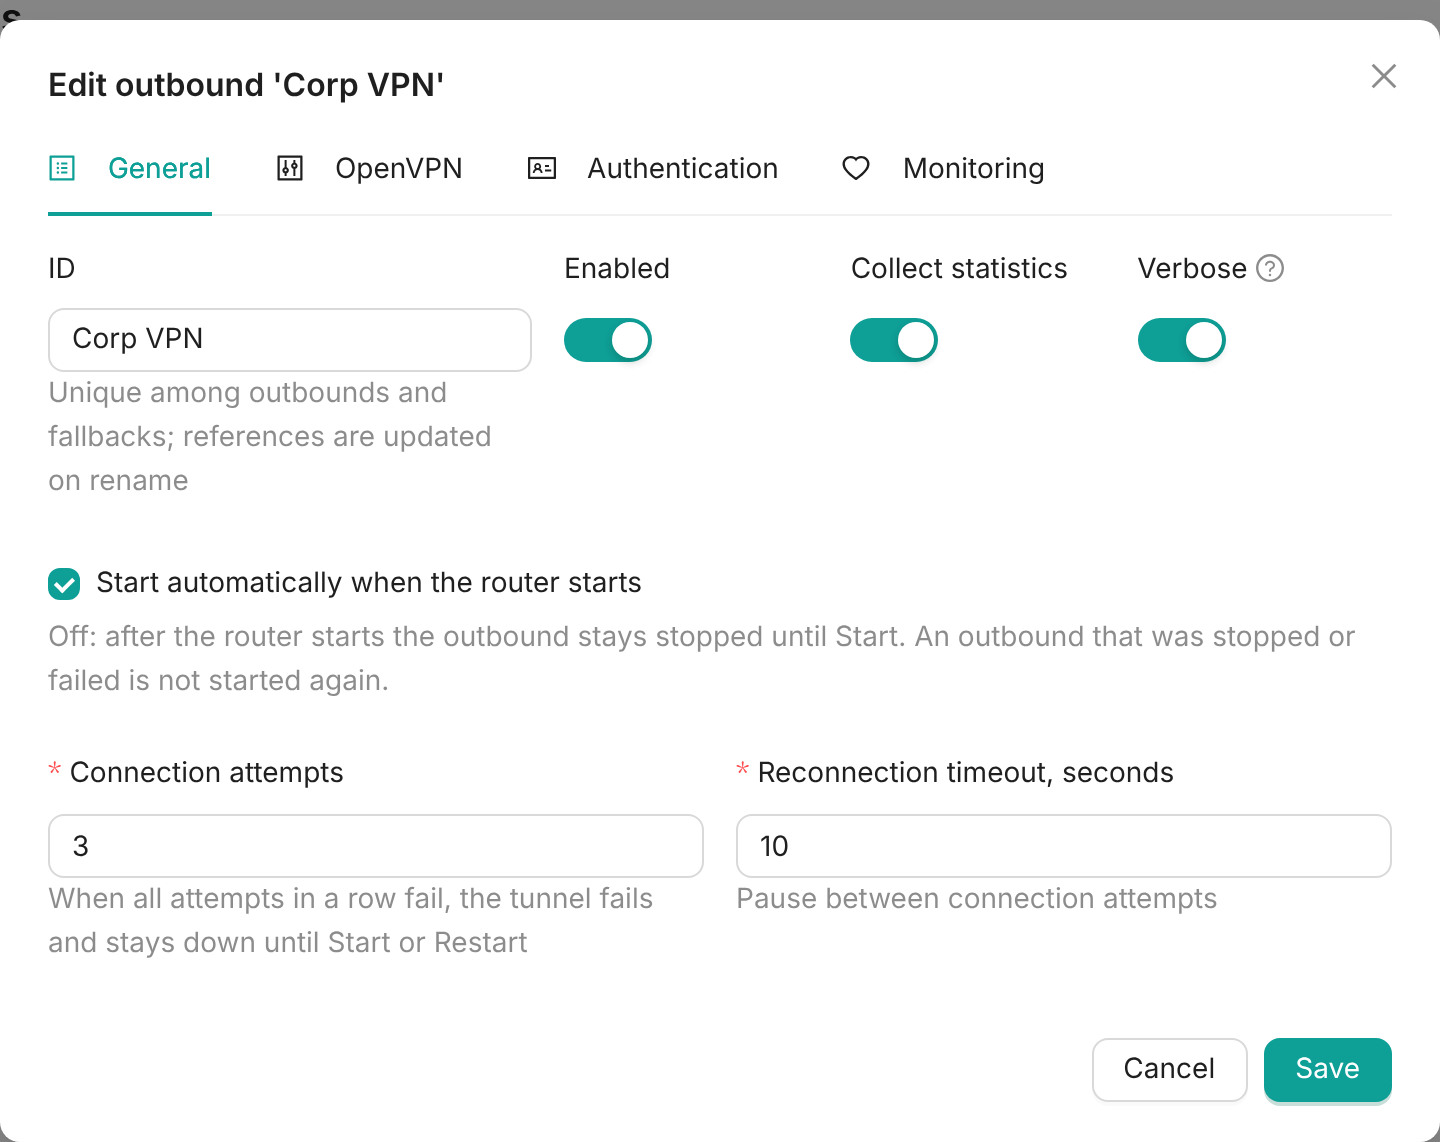
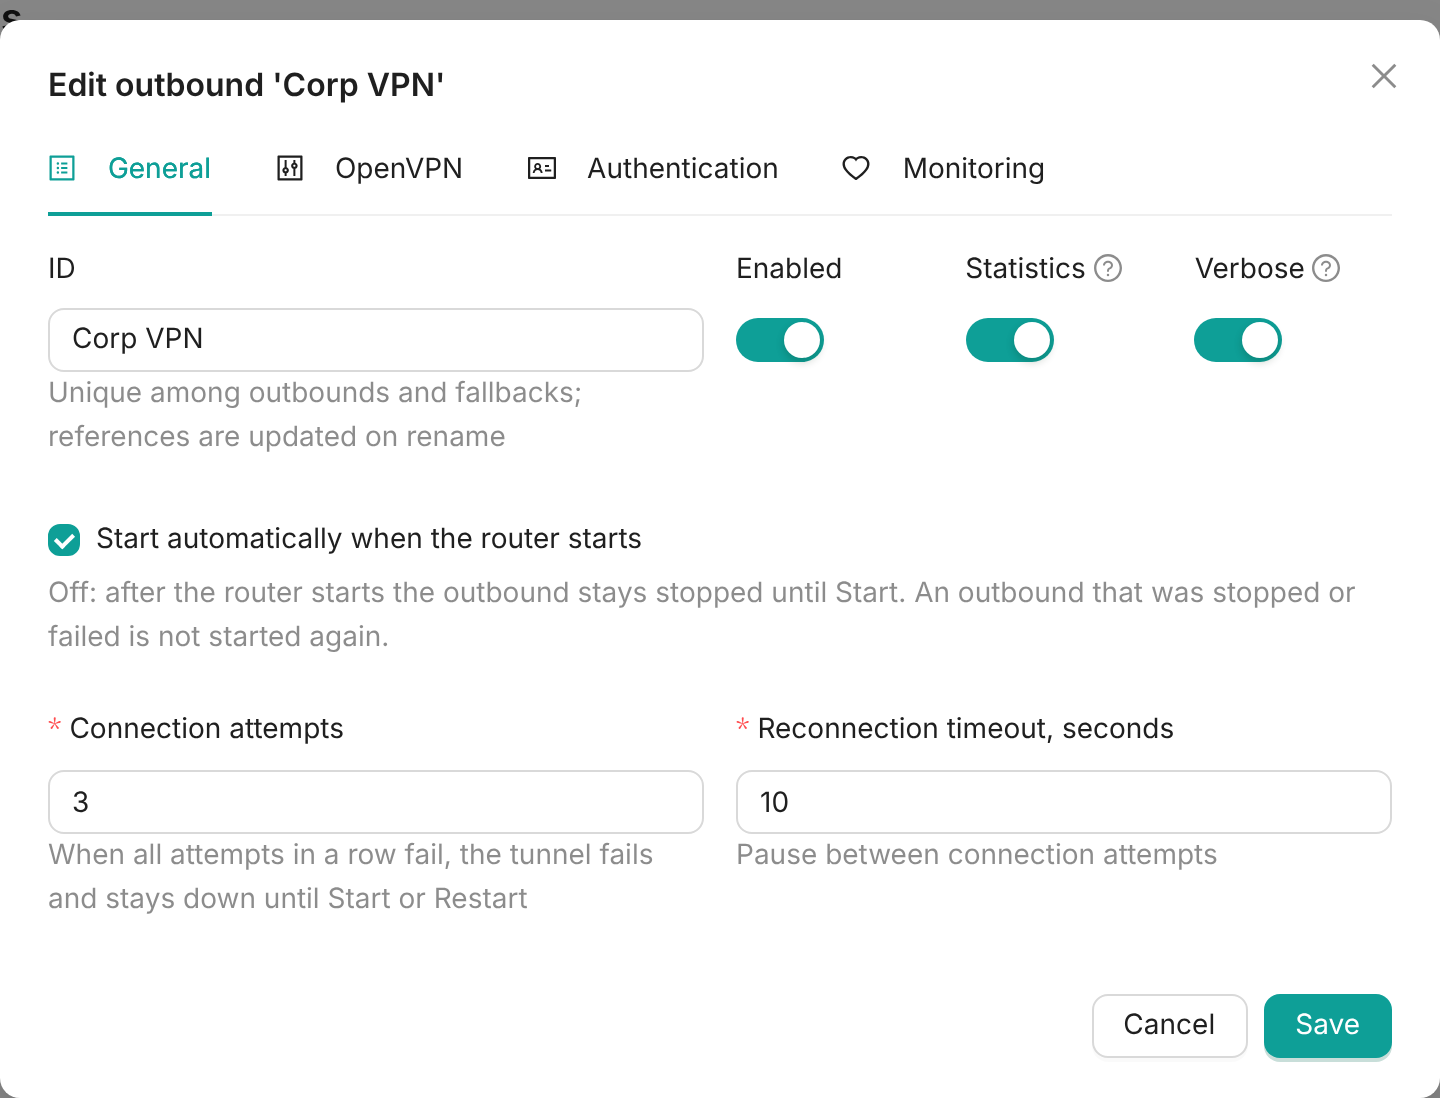
Rename Collect statistics to Statistics in dialogs
Shorten the label so the Enabled, Statistics and Verbose switches fit
in equal narrow columns and the ID field gets half of the row. Add a
tooltip to Statistics, update the docs and the General tab screenshot.

diff --git a/web/src/views/OutboundDialog.vue b/web/src/views/OutboundDialog.vue
@@ -6,15 +6,15 @@
         <a-tab-pane key="general" force-render>
           <template #tab><ProfileOutlined /> General</template>
           <a-row :gutter="16">
-            <a-col :span="9">
+            <a-col :span="12">
               <a-form-item label="ID" name="id" :rules="[{ pattern: idPattern, message: 'Letters, digits, space, _ . - (up to 48)' }]"
                 :extra="outbound ? 'Unique among outbounds and fallbacks; references are updated on rename' : 'Unique, allocated automatically when empty'">
                 <a-input v-model:value="form.id" :placeholder="outbound ? outbound.id : `${shortLabels[kind]} N`" />
               </a-form-item>
             </a-col>
-            <a-col :span="5"><a-form-item label="Enabled"><a-switch v-model:checked="form.enabled" /></a-form-item></a-col>
-            <a-col :span="5"><a-form-item label="Collect statistics"><a-switch v-model:checked="form.statistics" /></a-form-item></a-col>
-            <a-col :span="5">
+            <a-col :span="4"><a-form-item label="Enabled"><a-switch v-model:checked="form.enabled" /></a-form-item></a-col>
+            <a-col :span="4"><a-form-item label="Statistics" tooltip="Count traffic and draw it on the charts"><a-switch v-model:checked="form.statistics" /></a-form-item></a-col>
+            <a-col :span="4">
               <a-form-item label="Verbose" :tooltip="verboseHint"><a-switch v-model:checked="form.verbose" /></a-form-item>
             </a-col>
             <a-col :span="24">

diff --git a/web/src/views/InboundDialog.vue b/web/src/views/InboundDialog.vue
@@ -6,15 +6,15 @@
         <a-tab-pane key="general" force-render>
           <template #tab><ProfileOutlined /> General</template>
           <a-row :gutter="16">
-            <a-col :span="9">
+            <a-col :span="12">
               <a-form-item label="ID" name="id" :rules="[{ pattern: idPattern, message: 'Letters, digits, space, _ . - (up to 48)' }]"
                 :extra="saved ? 'Unique among inbounds' : 'Unique, allocated automatically when empty'">
                 <a-input v-model:value="form.id" :placeholder="saved || `${inboundLabels[kind]} N`" />
               </a-form-item>
             </a-col>
-            <a-col :span="5"><a-form-item label="Enabled"><a-switch v-model:checked="form.enabled" /></a-form-item></a-col>
-            <a-col :span="5"><a-form-item label="Collect statistics"><a-switch v-model:checked="form.statistics" /></a-form-item></a-col>
-            <a-col :span="5">
+            <a-col :span="4"><a-form-item label="Enabled"><a-switch v-model:checked="form.enabled" /></a-form-item></a-col>
+            <a-col :span="4"><a-form-item label="Statistics" tooltip="Count traffic and draw it on the charts"><a-switch v-model:checked="form.statistics" /></a-form-item></a-col>
+            <a-col :span="4">
               <a-form-item label="Verbose" :tooltip="verboseHint"><a-switch v-model:checked="form.verbose" /></a-form-item>
             </a-col>
             <a-col :span="24">

diff --git a/docs/user-guide.md b/docs/user-guide.md
@@ -165,7 +165,7 @@ Every outbound dialog has a **General** tab:
 | Start automatically when the router starts | On by default. Off: after the router starts, the outbound stays stopped until **Start** |
 | Connection attempts | Default 3. Failed attempts in a row before the outbound is `failed`: a tunnel then stays down until **Start** / **Restart**; HOST and proxies keep being checked and recover by themselves |
 | Reconnection timeout, seconds | Default 10. Pause between attempts |
-| Collect statistics | Count traffic and draw it on the chart |
+| Statistics | Count traffic and draw it on the chart |
 | Verbose | Off by default. Writes detailed debug information to the [connection log](#connection-log) (see below) |
 
 All fields are validated before saving. Changes are applied immediately.
@@ -365,7 +365,7 @@ keeps its state after a container restart.
 | Start automatically when the router starts | On by default: the inbound starts with the router (unless it was stopped or failed) |
 | Connection attempts | Default 3. Failed starts in a row before the inbound is `failed`; it then stays stopped until **Start** / **Restart** |
 | Reconnection timeout, seconds | Default 10. Pause between attempts |
-| Collect statistics | Count upload and download traffic of the inbound |
+| Statistics | Count upload and download traffic of the inbound |
 | Verbose | Off by default. The inbound log gets `debug:` lines: settings, attempts, state changes, clients that connect and disconnect (OpenVPN), and every connection of its clients with its duration and traffic. The OpenVPN server runs with at least `verb 6`, and the log keeps more lines (3000 by default) |
 | Port number | Unique, `7800…7898` (the range published by the Docker files); empty → the first free port |
 | Outbound | **Router** — the routes decide, like for the proxy port; **Host** — the host network connection, routes are skipped; or one of the outbounds — everything goes there |

diff --git a/docs/getting-started.md b/docs/getting-started.md
@@ -81,7 +81,7 @@ Go to **Outbounds → Add outbound** and choose a type.
 | An `.ovpn` file | **OpenVPN** | upload/paste the file, user, password, optional TOTP key |
 | An AmneziaWG `.conf`, `vpn://` key or QR code | **AmneziaWG** | upload/paste config, convert `vpn://`, or *Scan QR code from image* |
 
-Every outbound also has a **General** tab (ID, enabled, collect statistics, verbose log, *Start
+Every outbound also has a **General** tab (ID, enabled, statistics, verbose log, *Start
 automatically when the router starts*, connection attempts and reconnection timeout),
 and tunnels have a **Monitoring** tab. Changes are applied immediately: there is no
 separate "apply" step.
